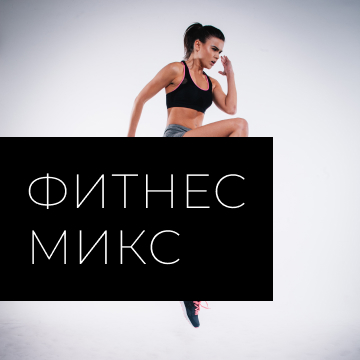
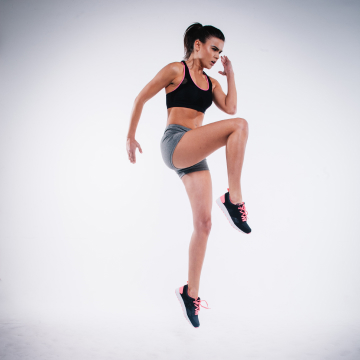
master

diff --git a/index.html b/index.html
@@ -101,6 +101,67 @@
 					</div>
 				</div>
 			</div>
+			<div class="direction">
+				<div class="direction__bg">
+					<div class="container">
+						<div class="direction__tittle tittle">ТОП НАПРАВЛЕНИЙ</div>
+						<div class="direction__body body-direction">
+							<div class="body-direction__column">
+								<div class="body-direction__inner">
+									<div class="body-direction__photo ibg">
+										<img src="img/Rectangle4.jpg" alt="">
+										<div class="body-direction__tittle">ЙОГА</div>
+									</div>
+								</div>
+							</div>
+							<div class="body-direction__column">
+								<div class="body-direction__inner">
+									<div class="body-direction__photo ibg">
+										<img src="img/Rectangle5.jpg" alt="">
+										<div class="body-direction__tittle body-direction__tittle_q">ФИТНЕС
+											МИКС</div>
+									</div>
+								</div>
+							</div>
+							<div class="body-direction__column body-direction__column_b">
+								<div class="body-direction__inner">
+									<div class="body-direction__photo ibg">
+										<img src="img/Rectangle6.jpg" alt="">
+										<div class="body-direction__tittle body-direction__tittle_w">ТРЕНАЖЕРНЫЙ
+											ЗАЛ</div>
+									</div>
+								</div>
+							</div>
+						</div>
+						<div class="direction__body body-direction body-direction_rev ">
+							<div class="body-direction__column">
+								<div class="body-direction__inner">
+									<div class="body-direction__photo ibg">
+										<img src="img/Rectangle8.jpg" alt="">
+										<div class="body-direction__tittle body-direction__tittle_r">ПИЛАТЕС</div>
+									</div>
+								</div>
+							</div>
+							<div class="body-direction__column">
+								<div class="body-direction__inner">
+									<div class="body-direction__photo ibg">
+										<img src="img/Rectangle9.jpg" alt="">
+										<div class="body-direction__tittle body-direction__tittle_r">ZUMBA</div>
+									</div>
+								</div>
+							</div>
+							<div class="body-direction__column body-direction__column_b">
+								<div class="body-direction__inner">
+									<div class="body-direction__photo ibg">
+										<img src="img/Rectangle7.jpg" alt="">
+										<div class="body-direction__tittle body-direction__tittle_t">КИКБОКСИНГ</div>
+									</div>
+								</div>
+							</div>
+						</div>
+					</div>
+				</div>
+			</div>
 		</main>
 	</div>
 

diff --git a/css/style.css b/css/style.css
@@ -738,3 +738,104 @@ h6 {
 }
 
 /*----------------------------------------------------------------------------------------------------------------------------------------------------------------------------------*/
+.direction__bg {
+  background-color: #000000;
+}
+
+.direction__tittle {
+  padding: 88px 0px 0px 0px;
+  margin: 0px 0px 64px 0px;
+}
+
+.direction__body {
+  display: -webkit-box;
+  display: -ms-flexbox;
+  display: flex;
+}
+
+.body-direction_rev .body-direction__column {
+  -webkit-box-ordinal-group: 3;
+      -ms-flex-order: 2;
+          order: 2;
+  -webkit-box-flex: 0;
+      -ms-flex: 0 1 26%;
+          flex: 0 1 26%;
+}
+
+.body-direction_rev .body-direction__column_b {
+  -webkit-box-flex: 0;
+      -ms-flex: 0 1 48%;
+          flex: 0 1 48%;
+  -webkit-box-ordinal-group: 2;
+      -ms-flex-order: 1;
+          order: 1;
+}
+
+.body-direction__column {
+  -webkit-box-flex: 0;
+      -ms-flex: 0 1 26%;
+          flex: 0 1 26%;
+}
+
+.body-direction__column_b {
+  -webkit-box-flex: 0;
+      -ms-flex: 0 1 48%;
+          flex: 0 1 48%;
+}
+
+.body-direction__inner {
+  position: relative;
+  height: 100%;
+  padding: 0px 0px 58.6% 0px;
+}
+
+.body-direction__photo {
+  position: absolute;
+  width: 100%;
+  height: 100%;
+  top: 0;
+  left: 0;
+}
+
+.body-direction__tittle {
+  font-family: "Montserrat";
+  font-style: normal;
+  font-weight: 200;
+  font-size: 48px;
+  line-height: 100%;
+  letter-spacing: 0.09em;
+  color: #ffffff;
+  background-color: #000000;
+  padding: 26px;
+  position: absolute;
+  top: 63px;
+  left: 0;
+}
+
+.body-direction__tittle_q {
+  top: 137px;
+  max-width: 273px;
+}
+
+.body-direction__tittle_w {
+  top: 186px;
+  max-width: 495px;
+  text-align: right;
+}
+
+.body-direction__tittle_e {
+  top: 177px;
+  max-width: 320px;
+}
+
+.body-direction__tittle_r {
+  top: 227px;
+  max-width: 320px;
+}
+
+.body-direction__tittle_t {
+  top: 243px;
+  max-width: 495px;
+}
+
+/*----------------------------------------------------------------------------------------------------------------------------------------------------------------------------------*/

diff --git a/#source/scss/style.scss b/#source/scss/style.scss
@@ -337,3 +337,90 @@
 }
 
 /*----------------------------------------------------------------------------------------------------------------------------------------------------------------------------------*/
+
+.direction {
+	&__bg {
+		background-color: #000000;
+	}
+
+	&__tittle {
+		padding: 88px 0px 0px 0px;
+		margin: 0px 0px 64px 0px;
+	}
+
+	&__body {
+		display: flex;
+	}
+}
+
+.body-direction {
+	&_rev {
+		.body-direction__column {
+			order: 2;
+			flex: 0 1 26%;
+			&_b {
+				flex: 0 1 48%;
+				order: 1;
+			}
+		}
+	}
+
+	&__column {
+		flex: 0 1 26%;
+		&_b {
+			flex: 0 1 48%;
+		}
+	}
+
+	&__inner {
+		position: relative;
+		height: 100%;
+		padding: 0px 0px 58.6% 0px;
+	}
+
+	&__photo {
+		position: absolute;
+		width: 100%;
+		height: 100%;
+		top: 0;
+		left: 0;
+	}
+
+	&__tittle {
+		font-family: "Montserrat";
+		font-style: normal;
+		font-weight: 200;
+		font-size: 48px;
+		line-height: 100%;
+		letter-spacing: 0.09em;
+		color: #ffffff;
+		background-color: #000000;
+		padding: 26px;
+		position: absolute;
+		top: 63px;
+		left: 0;
+		&_q {
+			top: 137px;
+			max-width: 273px;
+		}
+		&_w {
+			top: 186px;
+			max-width: 495px;
+			text-align: right;
+		}
+		&_e {
+			top: 177px;
+			max-width: 320px;
+		}
+		&_r {
+			top: 227px;
+			max-width: 320px;
+		}
+		&_t {
+			top: 243px;
+			max-width: 495px;
+		}
+	}
+}
+
+/*----------------------------------------------------------------------------------------------------------------------------------------------------------------------------------*/
